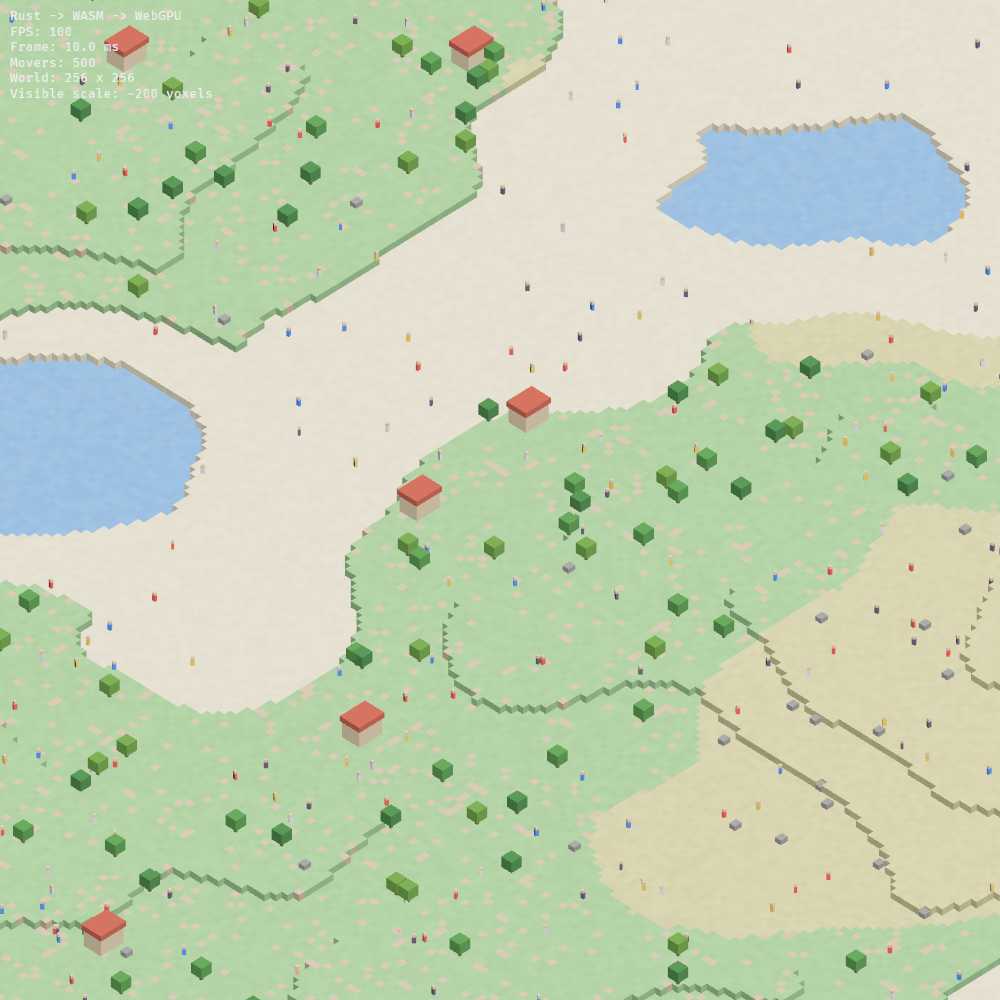
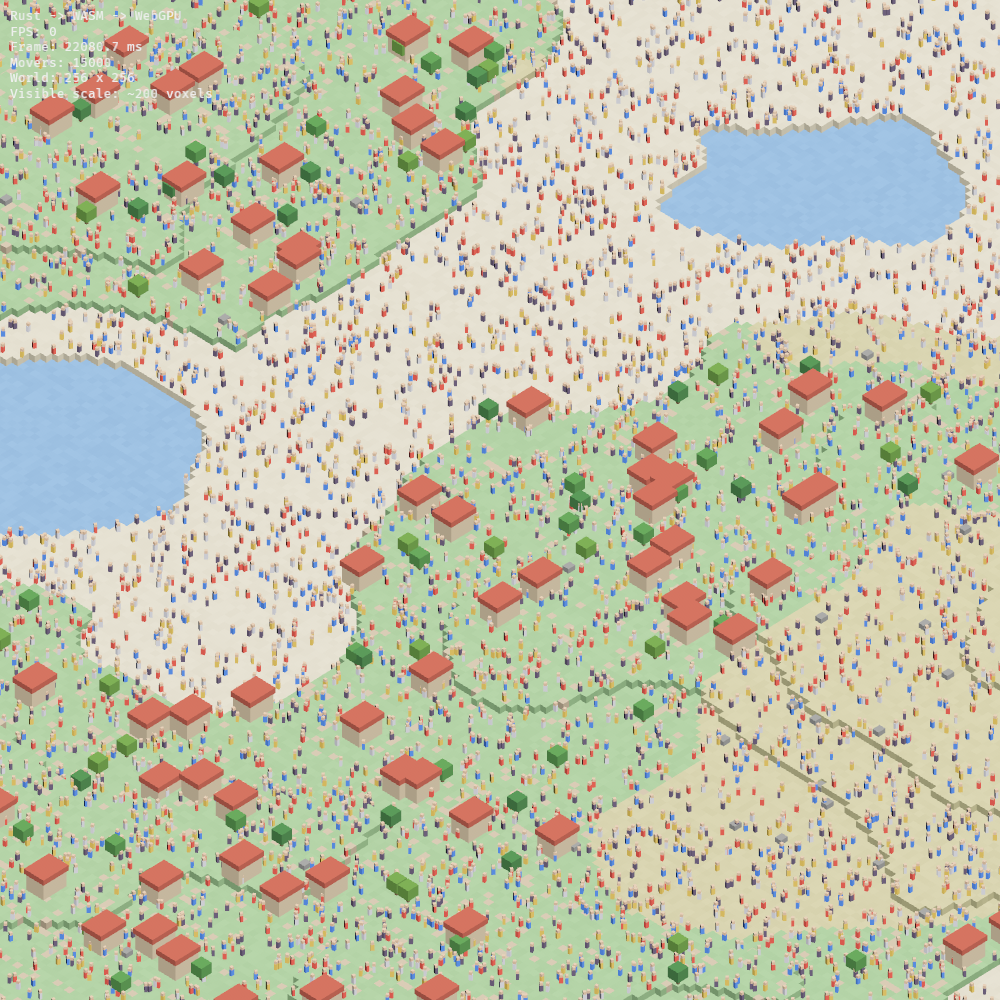
Scale rust_demo to 15,000 movers and 180 houses
Add periodic FPS console logging (forwarded to the dev-server terminal)
for headless measurement. Measured ~56-69 FPS in browser WebGPU at
15,000 movers. Update docs and screenshot.

Changed region(s): [[0.0, 0.0, 1.0, 1.0], [0.992, 0.775, 1.0, 0.806], [0.992, 0.713, 1.0, 0.744]]

diff --git a/rust_demo/src/diagnostics.rs b/rust_demo/src/diagnostics.rs
@@ -11,7 +11,7 @@ impl Plugin for OverlayPlugin {
     fn build(&self, app: &mut App) {
         app.add_plugins(FrameTimeDiagnosticsPlugin::default())
             .add_systems(Startup, spawn_overlay)
-            .add_systems(Update, update_overlay);
+            .add_systems(Update, (update_overlay, log_fps));
     }
 }
 
@@ -47,6 +47,21 @@ fn overlay_string(fps: Option<f64>, frame_ms: Option<f64>) -> String {
          World: {WORLD_WIDTH} x {WORLD_DEPTH}\n\
          Visible scale: ~{TARGET_VISIBLE_VOXELS:.0} voxels"
     )
+}
+
+/// Log FPS to the console every few seconds so headless/browser runs can be
+/// measured from the terminal (wasm-server-runner forwards console output).
+fn log_fps(time: Res<Time>, diagnostics: Res<DiagnosticsStore>, mut next_log: Local<f32>) {
+    if time.elapsed_secs() < *next_log {
+        return;
+    }
+    *next_log = time.elapsed_secs() + 5.0;
+    if let Some(fps) = diagnostics
+        .get(&FrameTimeDiagnosticsPlugin::FPS)
+        .and_then(|d| d.smoothed())
+    {
+        info!("fps: {fps:.0} (movers: {MOVER_COUNT})");
+    }
 }
 
 fn update_overlay(

diff --git a/rust_demo/src/config.rs b/rust_demo/src/config.rs
@@ -25,14 +25,14 @@ pub const WATER_LEVEL: u32 = 1;
 pub const TERRAIN_CHUNK_SIZE: usize = 16;
 
 /// Number of wandering entities. Try 100 / 500 / 1000 / 2000 / 5000.
-pub const MOVER_COUNT: usize = 500;
+pub const MOVER_COUNT: usize = 15000;
 pub const MOVER_MIN_SPEED: f32 = 2.0;
 pub const MOVER_MAX_SPEED: f32 = 6.0;
 
 /// Static decoration counts (trees, rocks, houses).
 pub const TREE_COUNT: usize = 220;
 pub const ROCK_COUNT: usize = 60;
-pub const HOUSE_COUNT: usize = 18;
+pub const HOUSE_COUNT: usize = 180;
 
 /// Fixed isometric-style camera orientation.
 pub const CAMERA_AZIMUTH_DEGREES: f32 = 45.0;

diff --git a/rust_demo/README.md b/rust_demo/README.md
@@ -2,7 +2,7 @@
 
 A small Rust/Bevy voxel simulation compiled to WebAssembly and rendered with
 WebGPU in the browser. A fixed isometric-style orthographic camera frames a
-256 × 256 procedural voxel world (~200 voxels visible) populated by 500 tiny
+256 × 256 procedural voxel world (~200 voxels visible) populated by 15,000 tiny
 wandering "people", trees, rocks, and houses.
 
 ![Voxel demo screenshot](docs/screenshot.png)
@@ -93,7 +93,7 @@ Default workload:
 ```text
 256 × 256 terrain (256 chunk meshes, hidden faces culled)
 ~200 × 200 voxel visible footprint
-500 moving entities (shared meshes/materials)
+15,000 moving entities (shared meshes/materials)
 ~300 static decorations
 ```
 

diff --git a/rust_demo/docs/ARCHITECTURE.md b/rust_demo/docs/ARCHITECTURE.md
@@ -88,7 +88,7 @@ makes individual voxels legible at 5 px/voxel.
 
 ## 8. Moving entities (`movers.rs`)
 
-500 (configurable) "people": parent entity holding a `Mover` component
+15,000 (configurable) "people": parent entity holding a `Mover` component
 (heading, speed, retarget timer, inline u64 rng state) + two children (body
 prism, head cube) sharing 2 meshes and 6 materials total. The Update system:
 advance heading timer → step position → bounce at world margin → reverse at

diff --git a/rust_demo/docs/TUNING.md b/rust_demo/docs/TUNING.md
@@ -17,7 +17,7 @@ orthographic viewport height is `target * sin(elevation)`.
 
 ## More movers
 
-Change `MOVER_COUNT` (default 500). Suggested test values:
+Change `MOVER_COUNT` (default 15000; ~56-69 FPS measured in browser WebGPU on an M-series Mac). Suggested test values:
 
 ```text
 100
